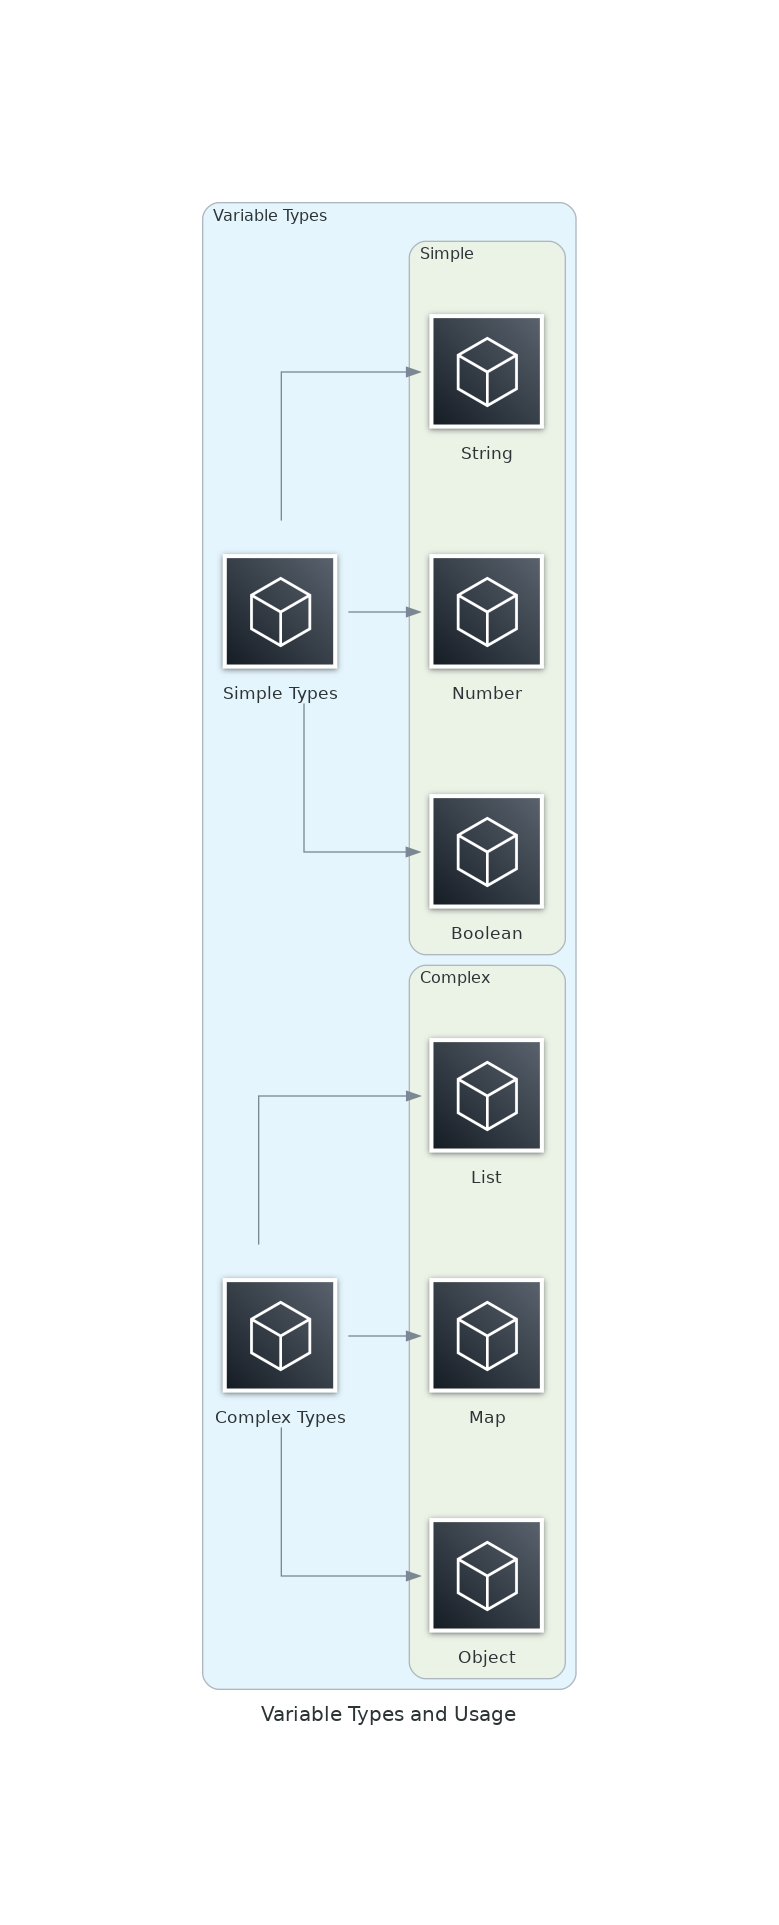
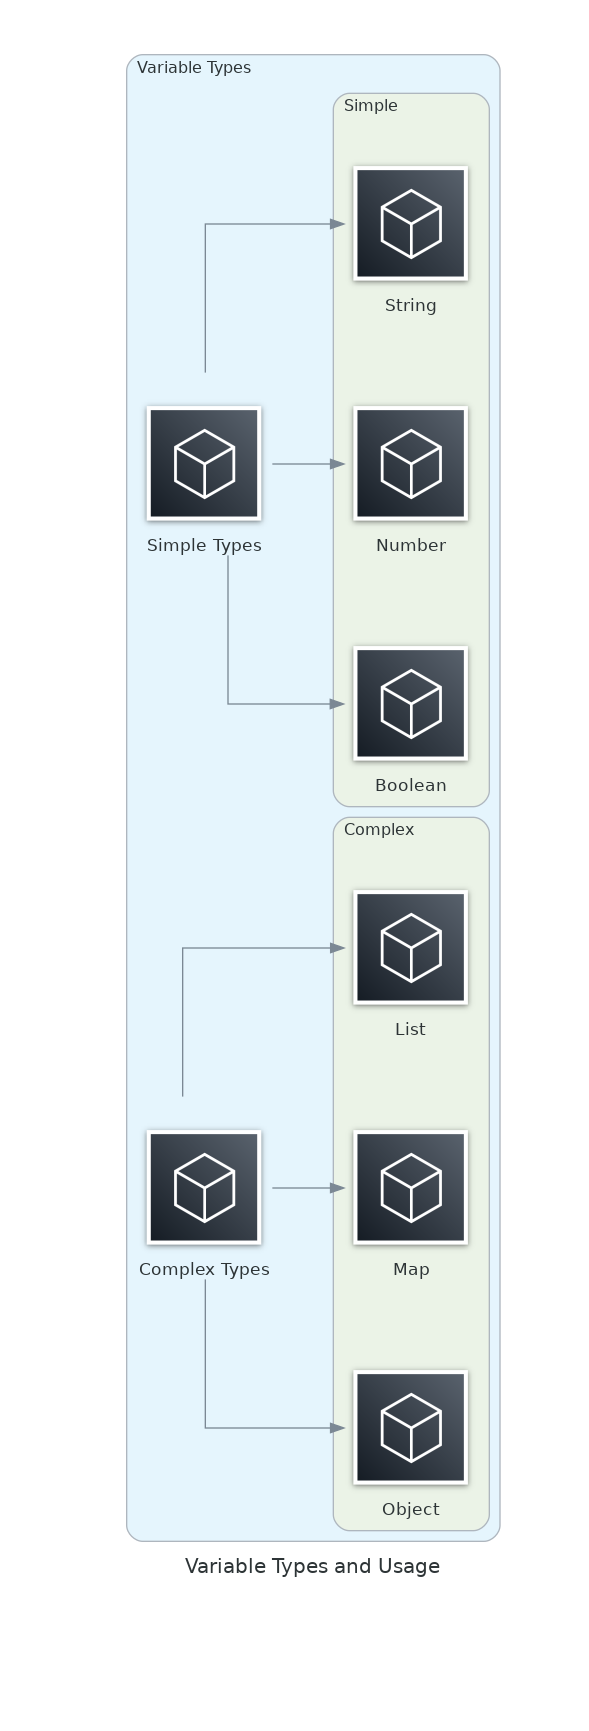
updated

Changed region(s): [[0.2139, 0.0312, 0.8557, 0.9047]]

diff --git a/03-terraform-basics/03-theory.md b/03-terraform-basics/03-theory.md
@@ -1,6 +1,6 @@
 # Terraform Basics
 ![Terraform Basics Concept](/03-terraform-basics/03-diagrams/03-theory-diagrams/terraform_basics_concepts.png)
-
+![Terraform Workflow)](/03-terraform-basics/03-diagrams/03-theory-diagrams/terraform_workflow.png)
 ## Overview
 This section covers the fundamental concepts of Terraform, including its basic commands, configuration syntax, and core workflows.
 
@@ -109,7 +109,7 @@ resource "aws_instance" "web_server" {
 3. **Resource Configuration**: Key-value pairs that configure the resource
 
 ### Resource Dependencies Explained
-
+![Resource Dependencies)](/03-terraform-basics/03-diagrams/03-theory-diagrams/resource_dependencies.png)
 #### 1. Implicit Dependencies
 Terraform automatically determines dependencies when one resource references another using interpolation expressions:
 
@@ -257,7 +257,7 @@ resource "aws_instance" "example" {
 ```
 
 ## 4. Variables and Outputs
-
+![Variable Types)](/03-terraform-basics/03-diagrams/03-theory-diagrams/variable_types_and_usage.png)
 ### Variable Types
 ```hcl
 # String
@@ -296,6 +296,7 @@ output "instance_ip" {
 ```
 
 ## 5. State Management
+![State Management)](/03-terraform-basics/03-diagrams/03-theory-diagrams/state_management.png)
 
 ### State Basics
 - State file (`terraform.tfstate`)
